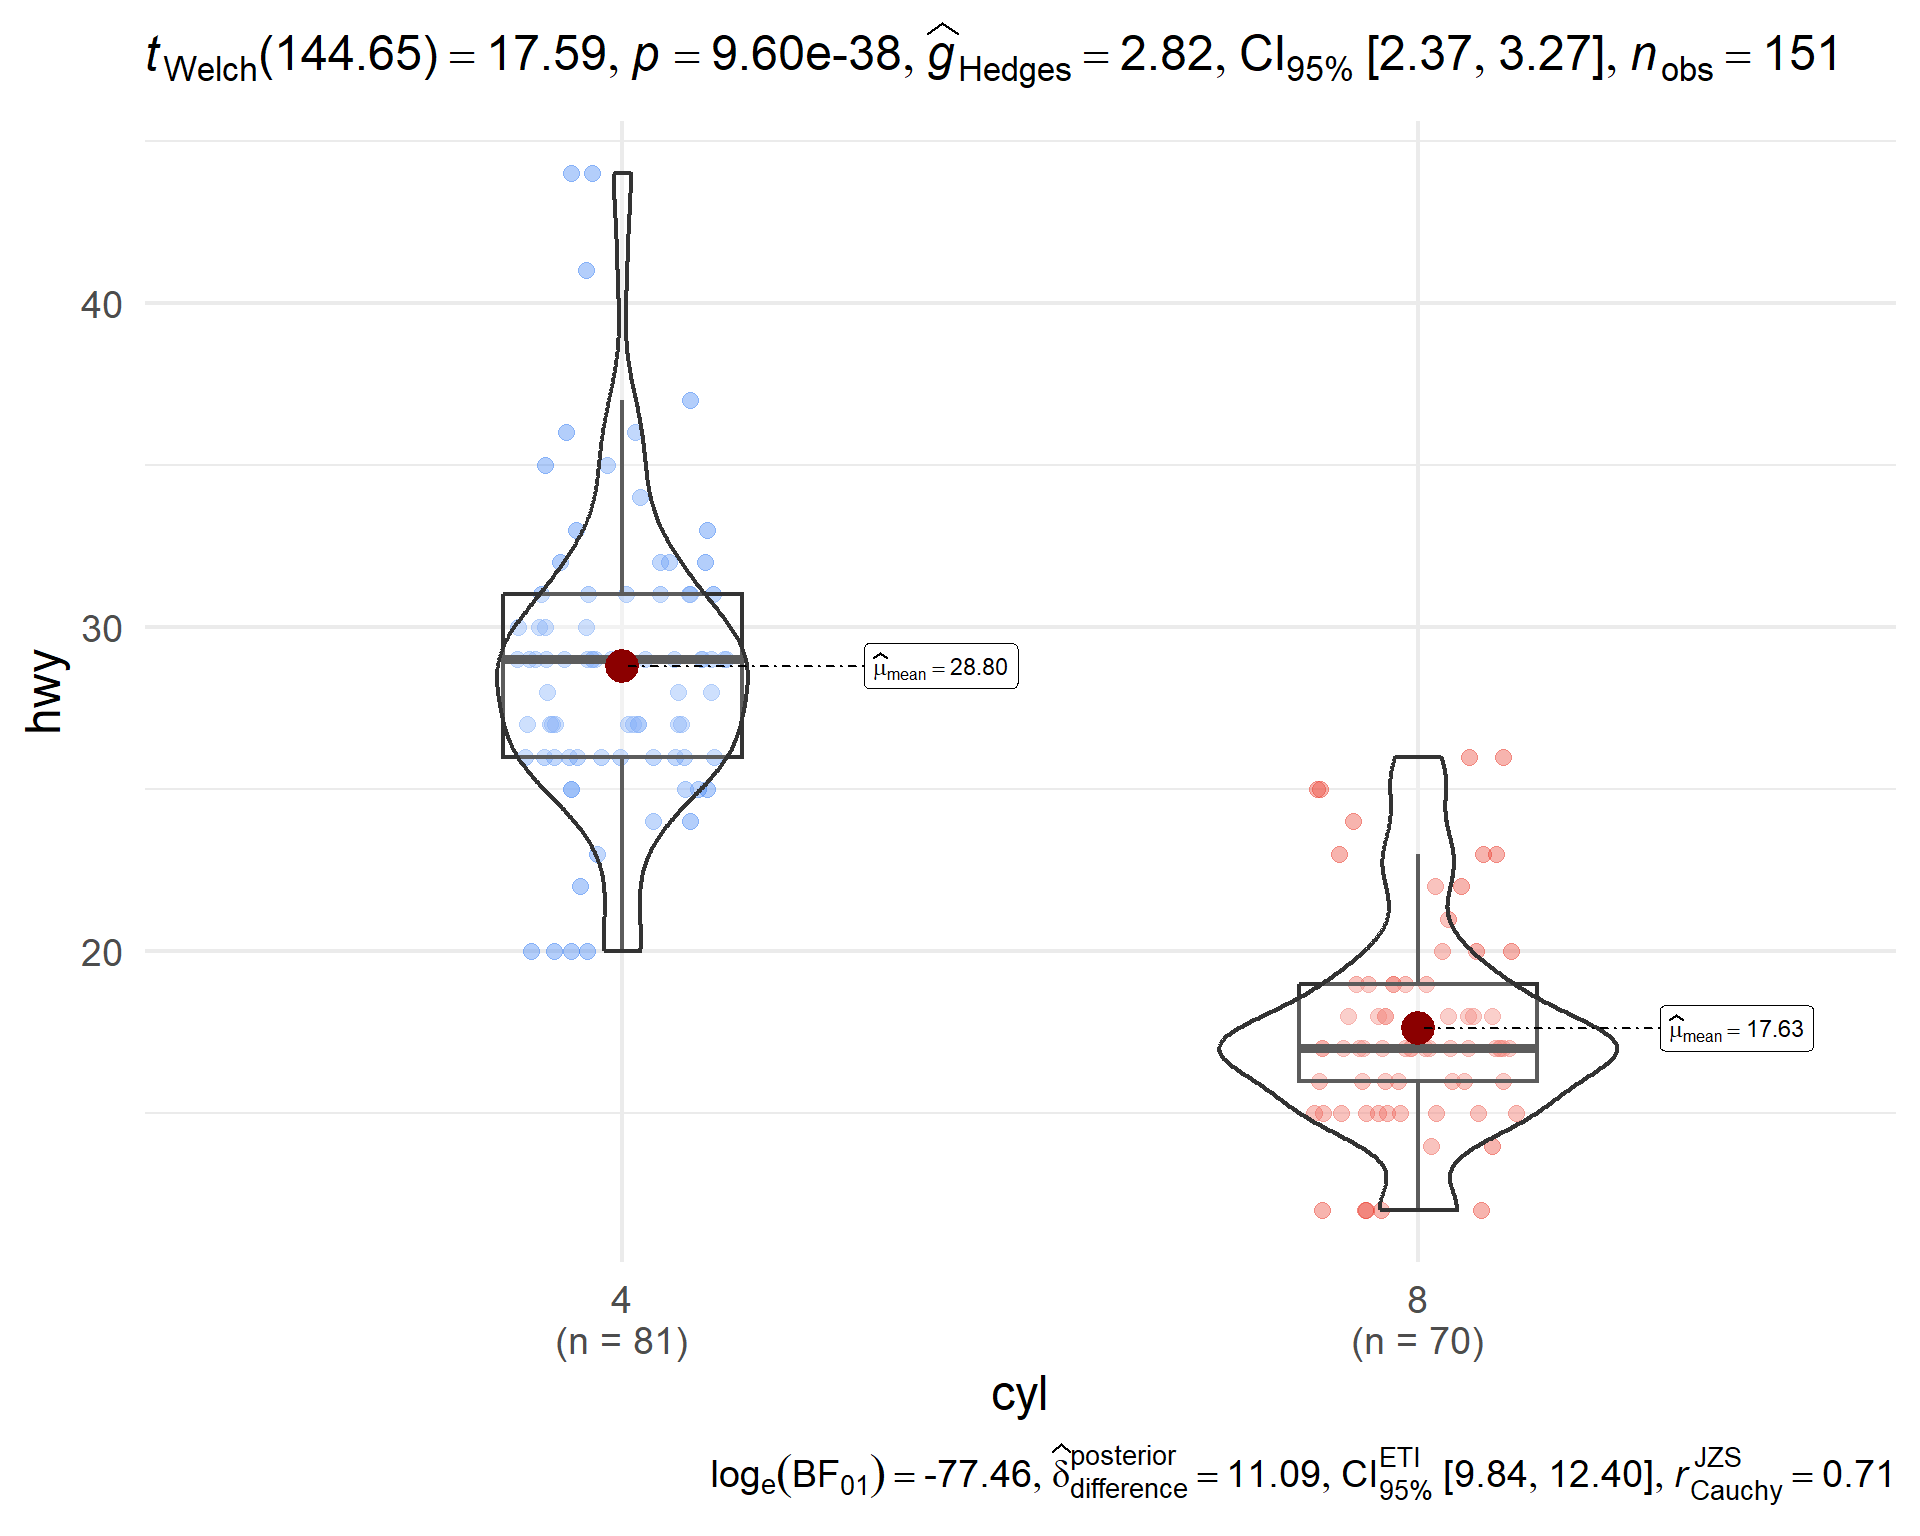
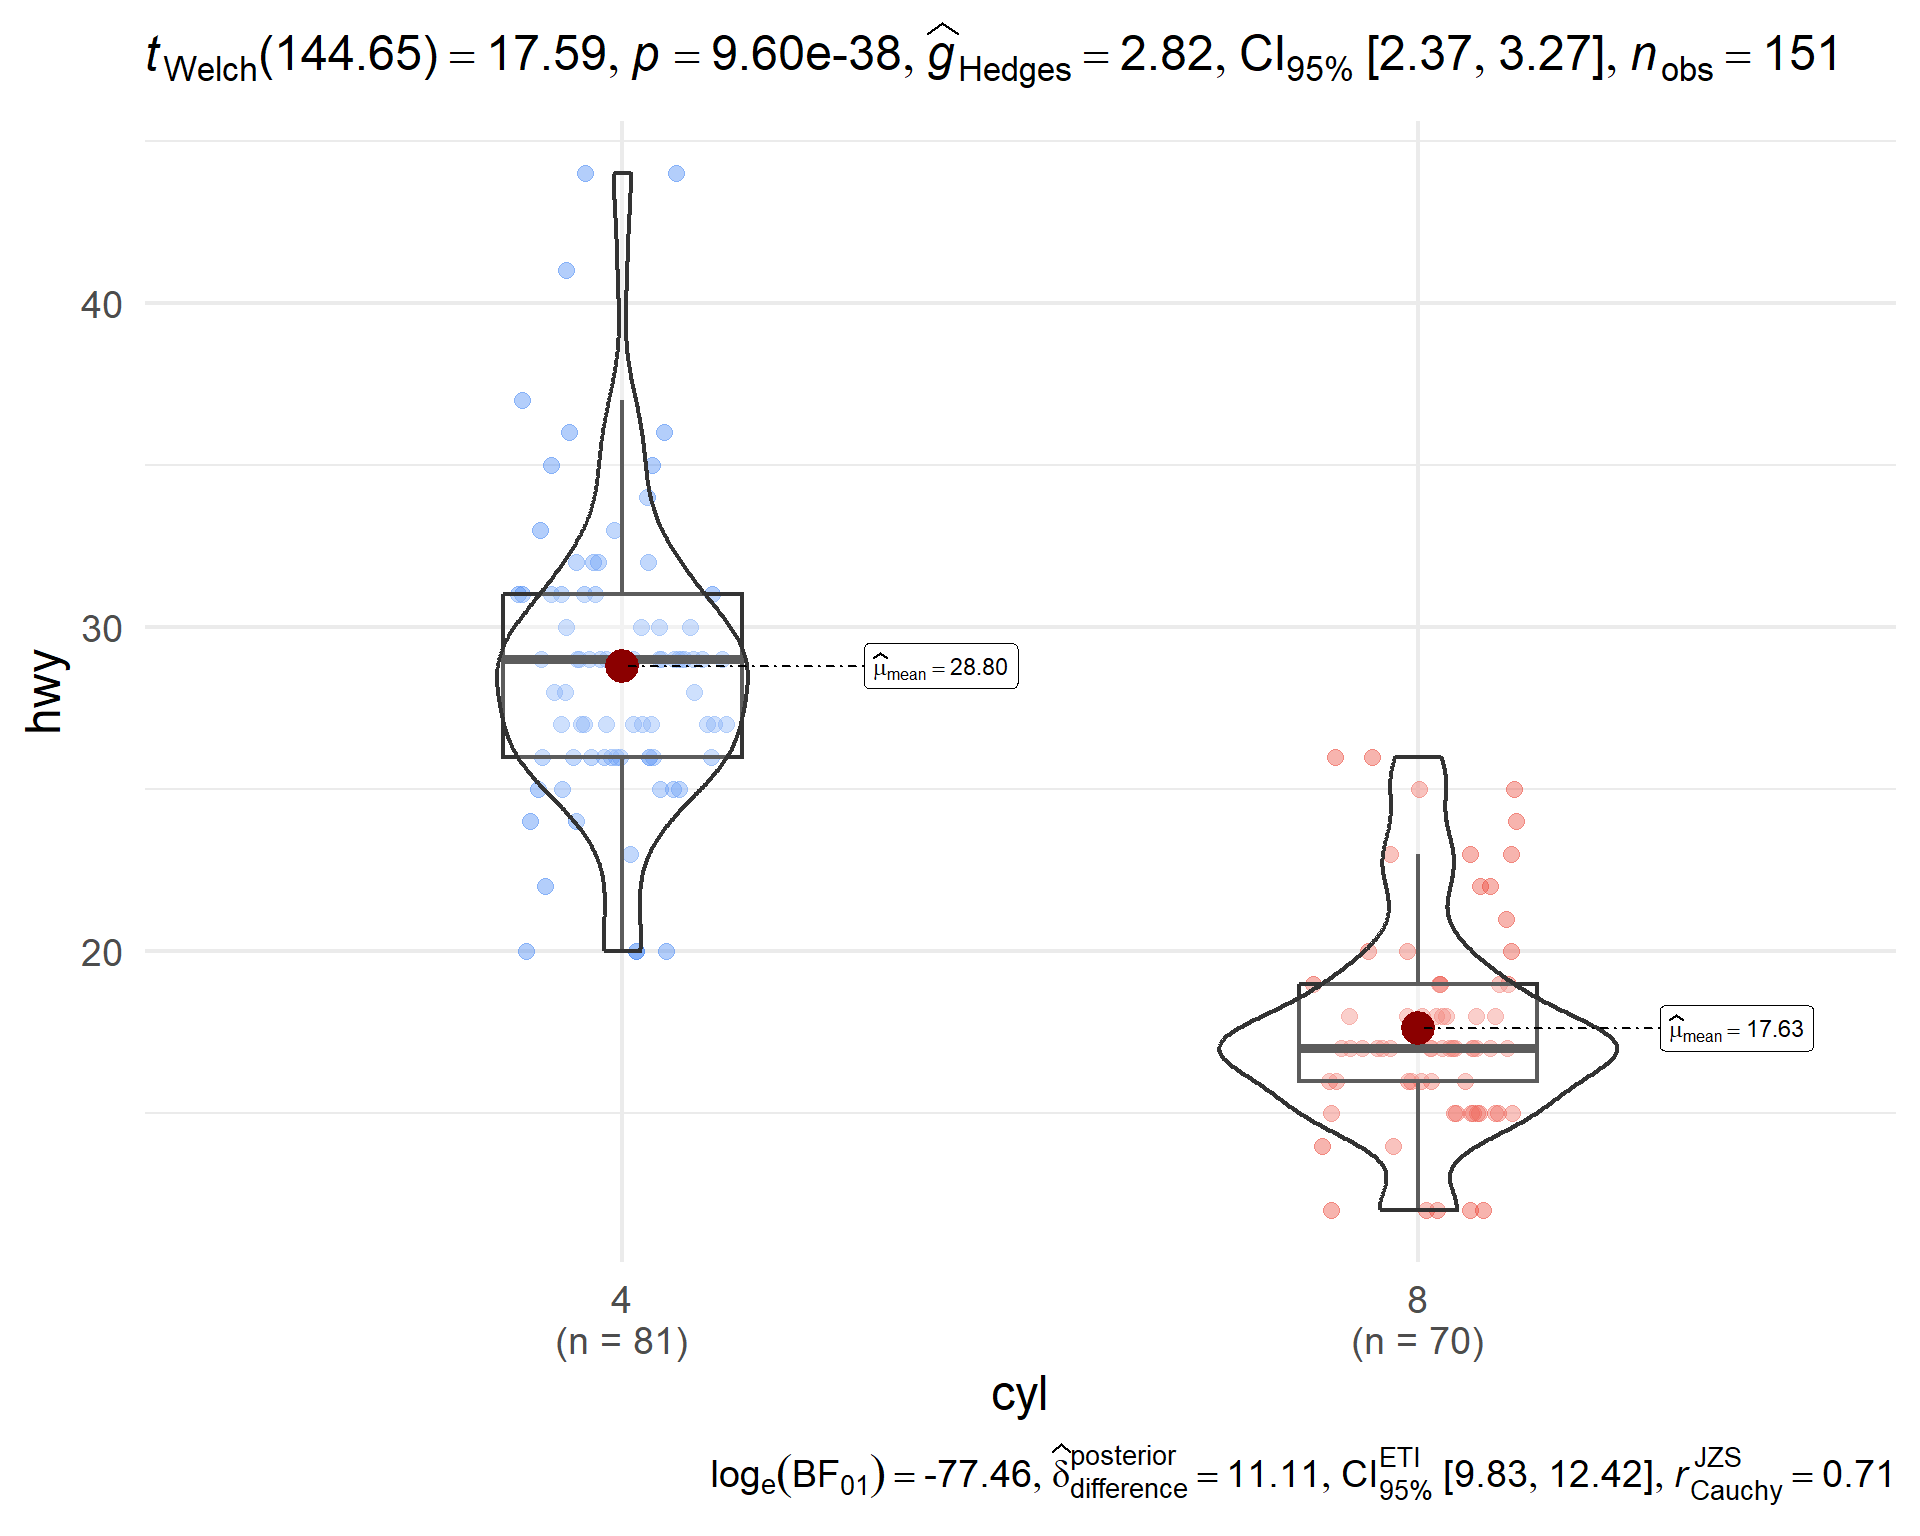
re render index

diff --git a/s4-statistical-analysis/index.html b/s4-statistical-analysis/index.html
@@ -421,8 +421,8 @@
 <table class="caption-top" style="width:100%;">
 <colgroup>
 <col style="width: 24%">
-<col style="width: 32%">
-<col style="width: 42%">
+<col style="width: 31%">
+<col style="width: 43%">
 </colgroup>
 <thead>
 <tr class="header">
